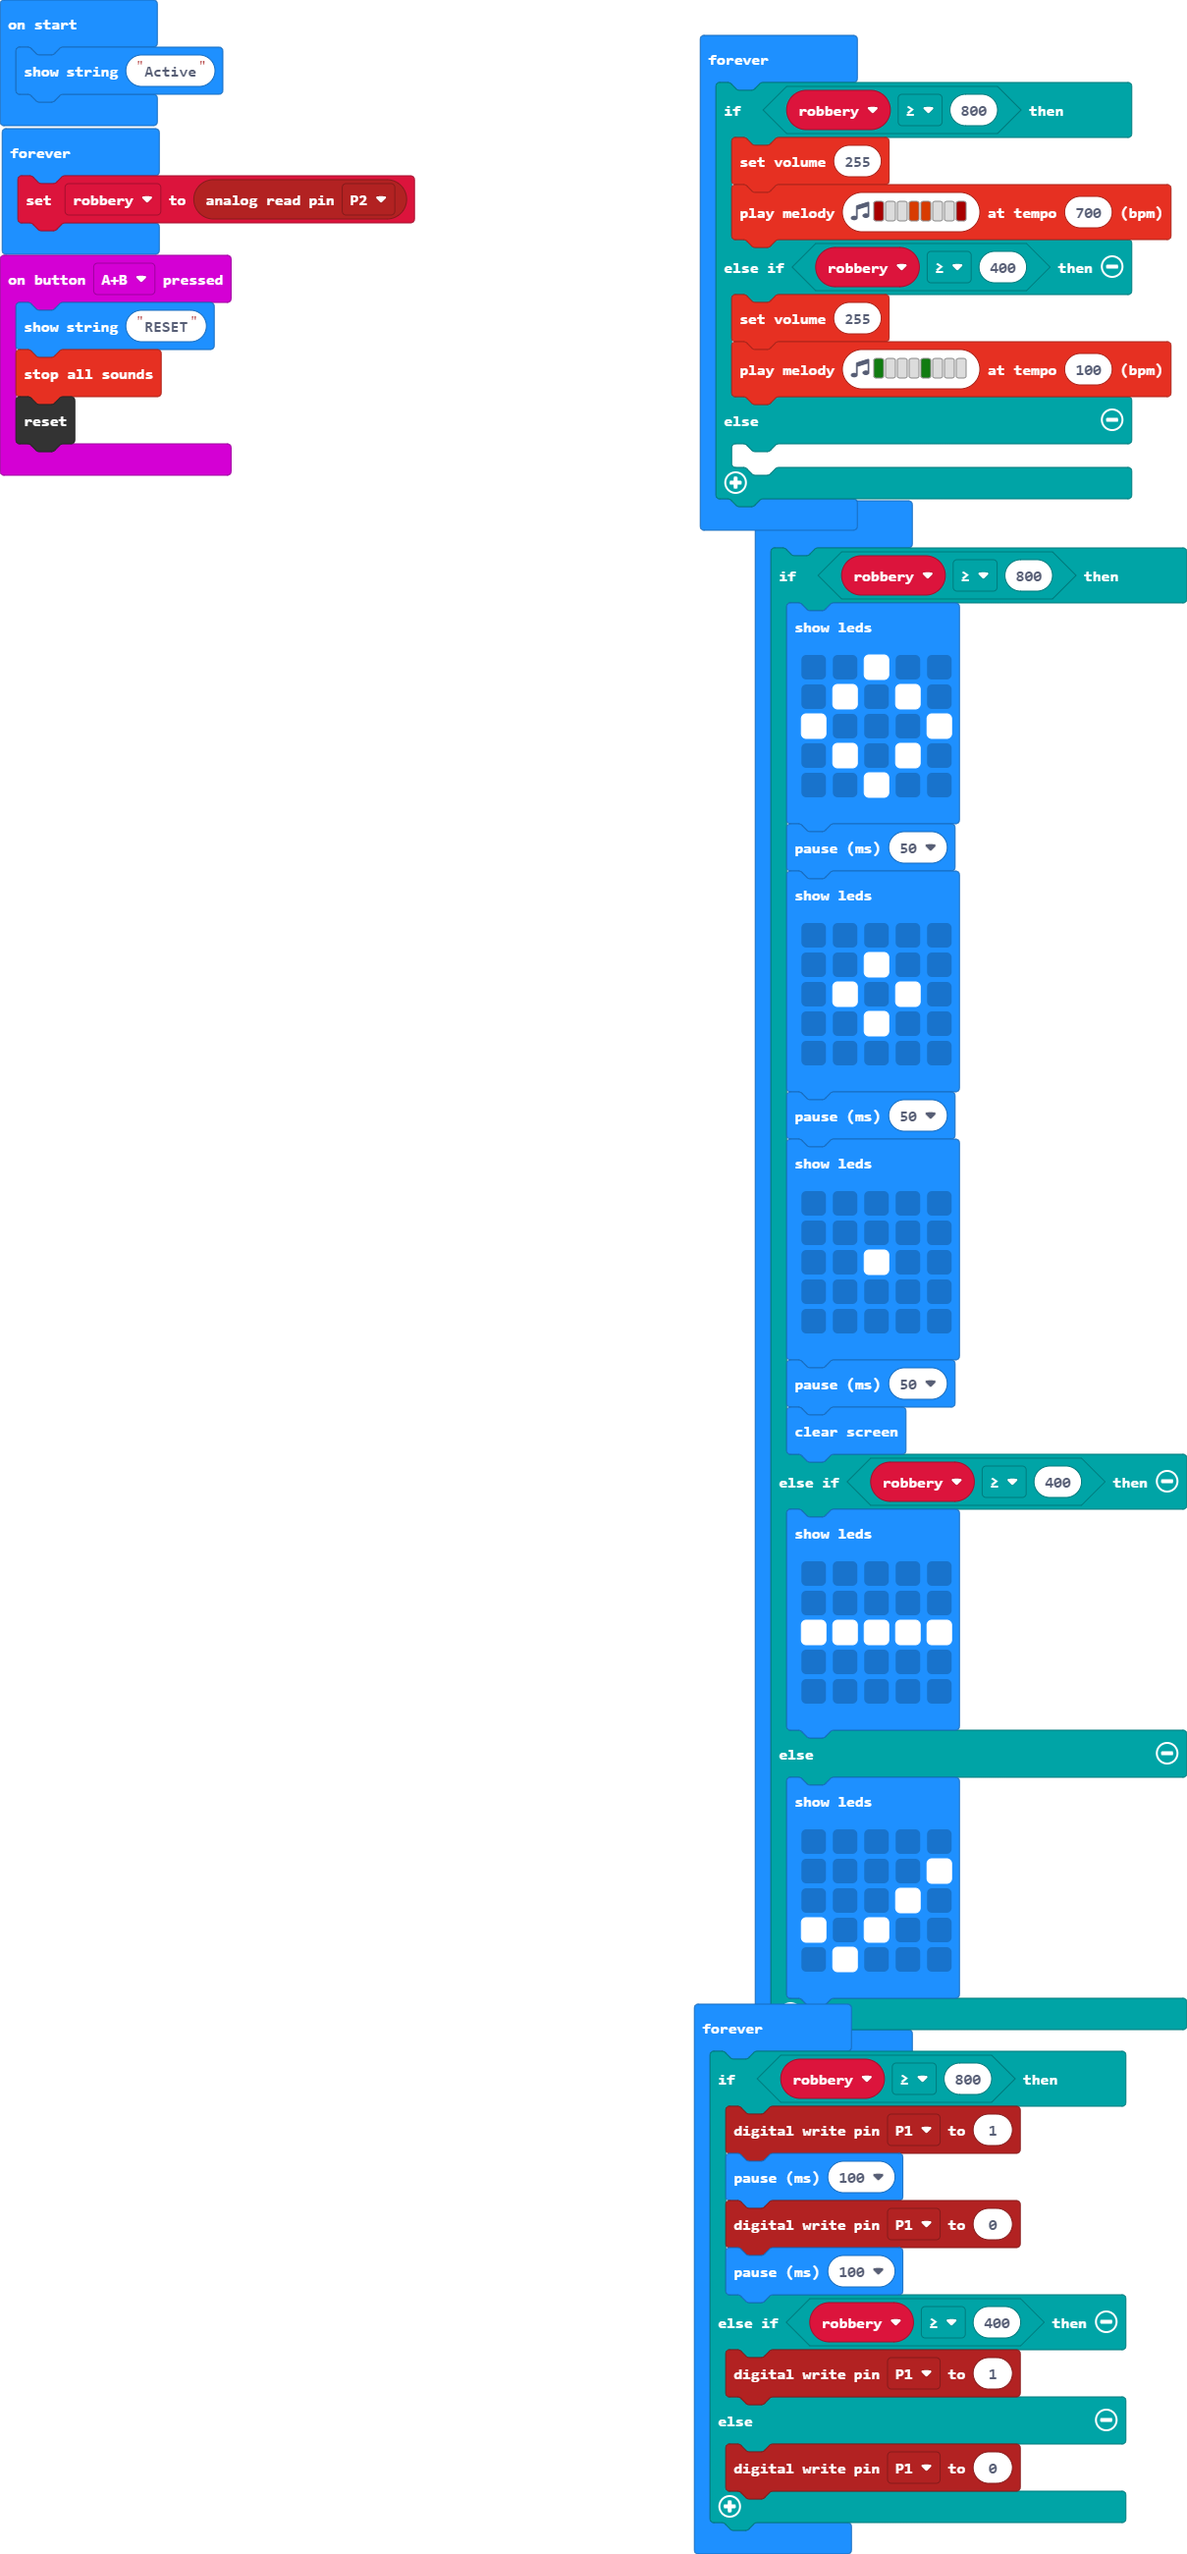
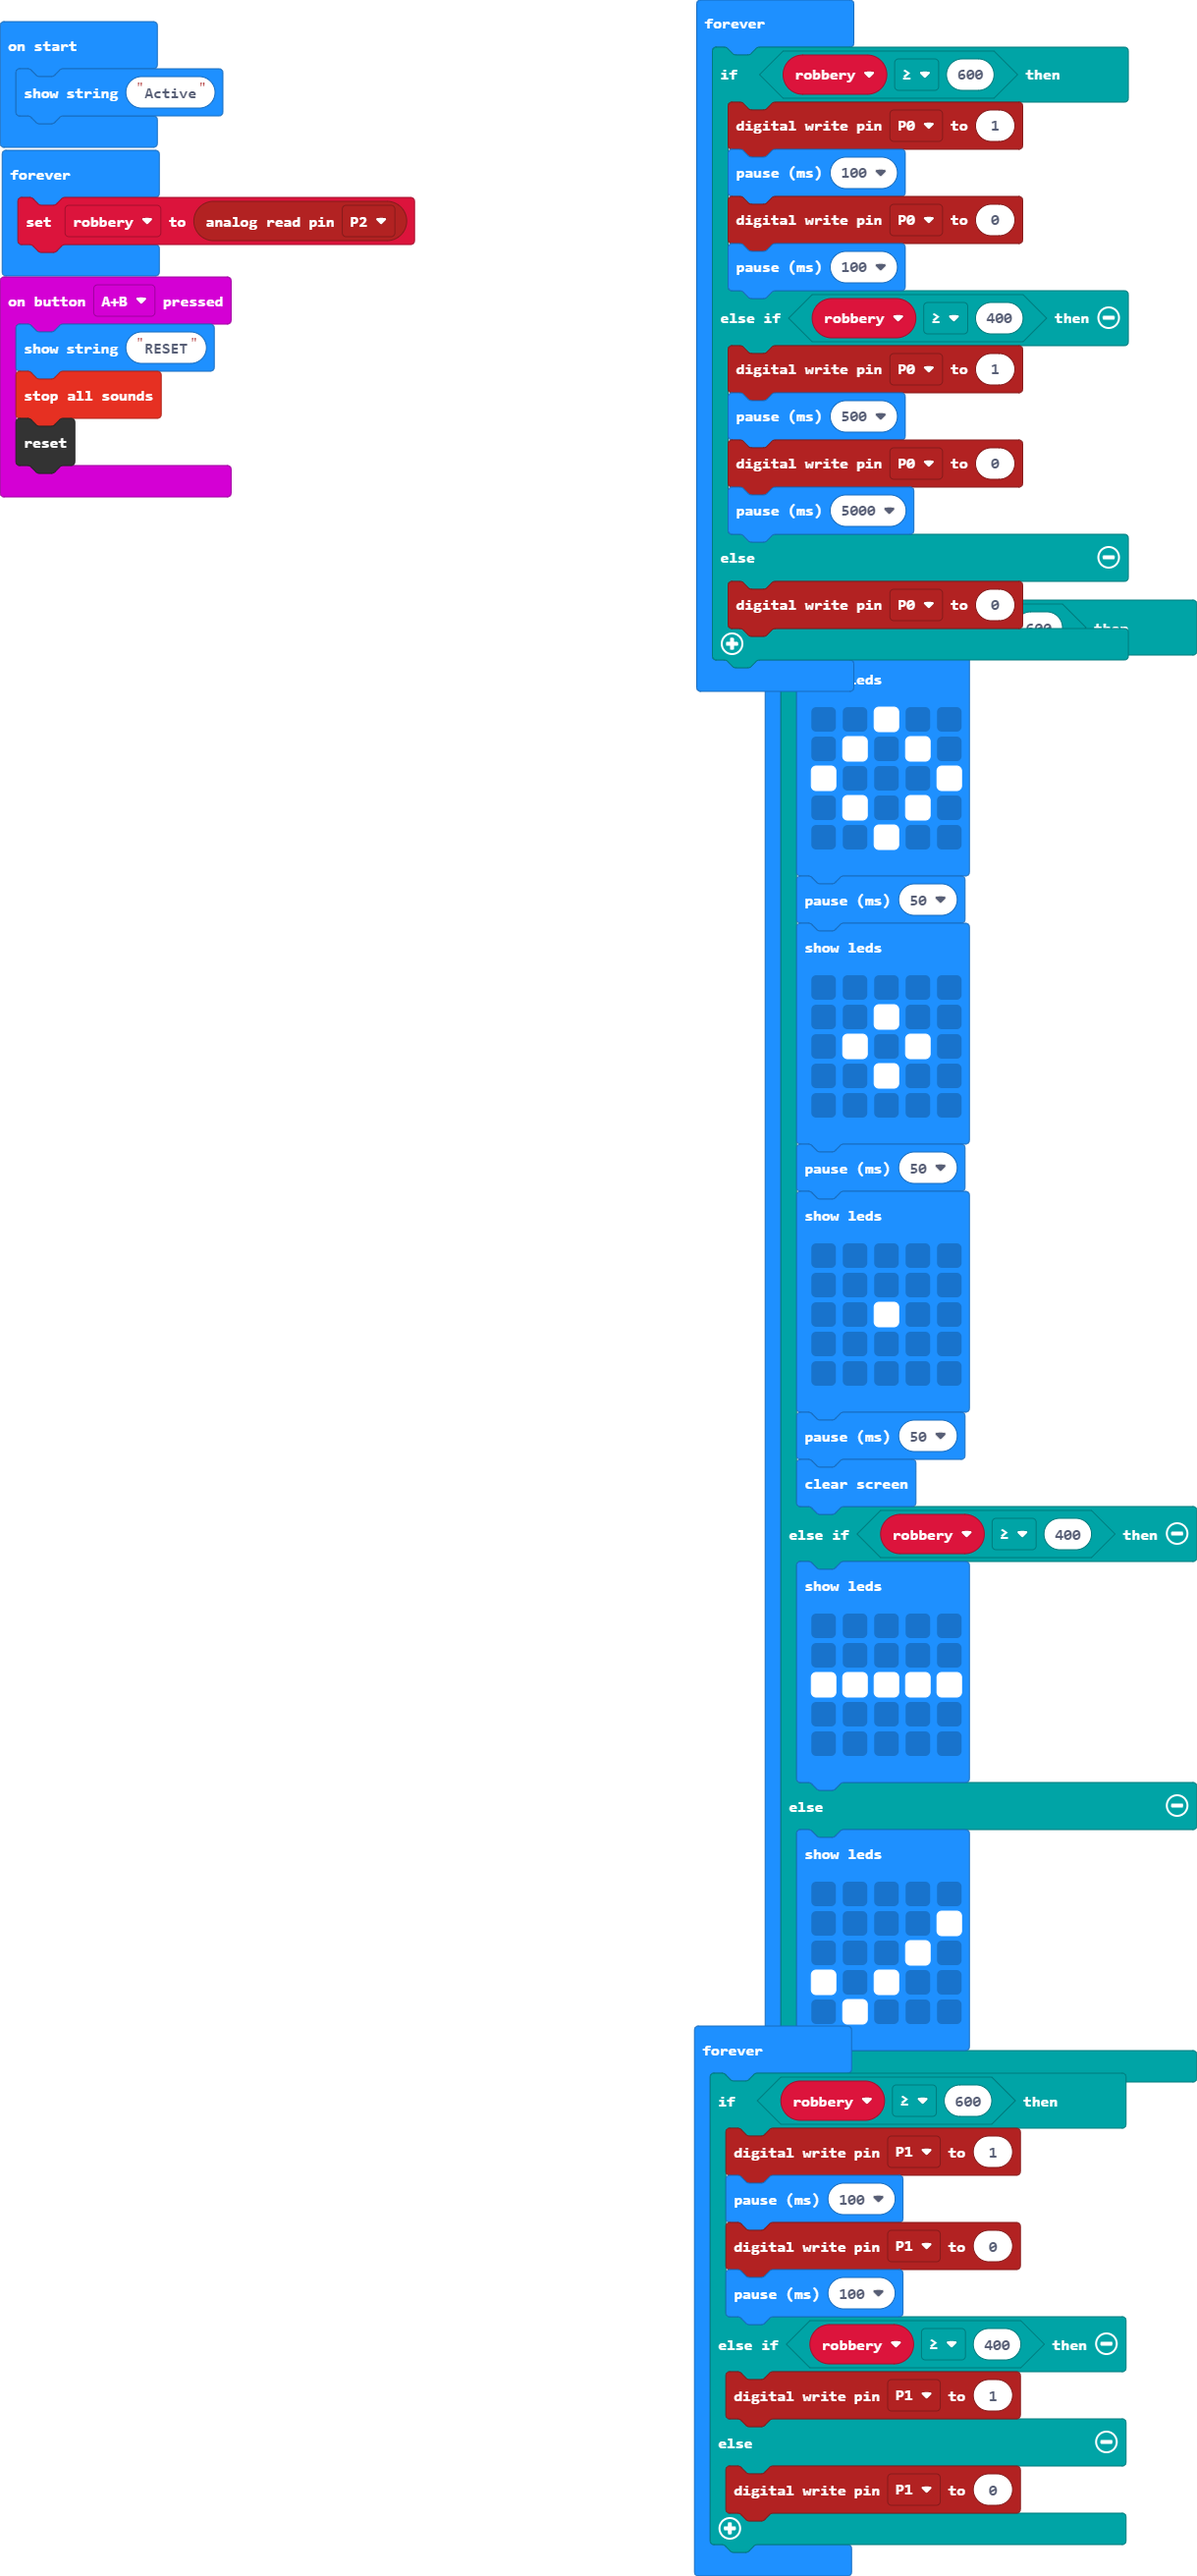
Update pxt.json, main.blocks, main.ts

Changed region(s): [[0.5815, 0.0, 1.0, 1.0], [0.0, 0.0, 0.3672, 0.218]]

diff --git a/main.ts b/main.ts
@@ -6,21 +6,25 @@ input.onButtonPressed(Button.AB, function () {
 let robbery = 0
 basic.showString("Active")
 basic.forever(function () {
-    if (robbery >= 800) {
-        music.setVolume(255)
-        music.playMelody("C5 - - B B - - C5 ", 700)
+    if (robbery >= 600) {
+        pins.digitalWritePin(DigitalPin.P0, 1)
+        basic.pause(100)
+        pins.digitalWritePin(DigitalPin.P0, 0)
+        basic.pause(100)
     } else if (robbery >= 400) {
-        music.setVolume(255)
-        music.playMelody("G - - - G - - - ", 100)
+        pins.digitalWritePin(DigitalPin.P0, 1)
+        basic.pause(500)
+        pins.digitalWritePin(DigitalPin.P0, 0)
+        basic.pause(5000)
     } else {
-    	
+        pins.digitalWritePin(DigitalPin.P0, 0)
     }
 })
 basic.forever(function () {
     robbery = pins.analogReadPin(AnalogPin.P2)
 })
 basic.forever(function () {
-    if (robbery >= 800) {
+    if (robbery >= 600) {
         basic.showLeds(`
             . . # . .
             . # . # .
@@ -65,7 +69,7 @@ basic.forever(function () {
     }
 })
 basic.forever(function () {
-    if (robbery >= 800) {
+    if (robbery >= 600) {
         pins.digitalWritePin(DigitalPin.P1, 1)
         basic.pause(100)
         pins.digitalWritePin(DigitalPin.P1, 0)
